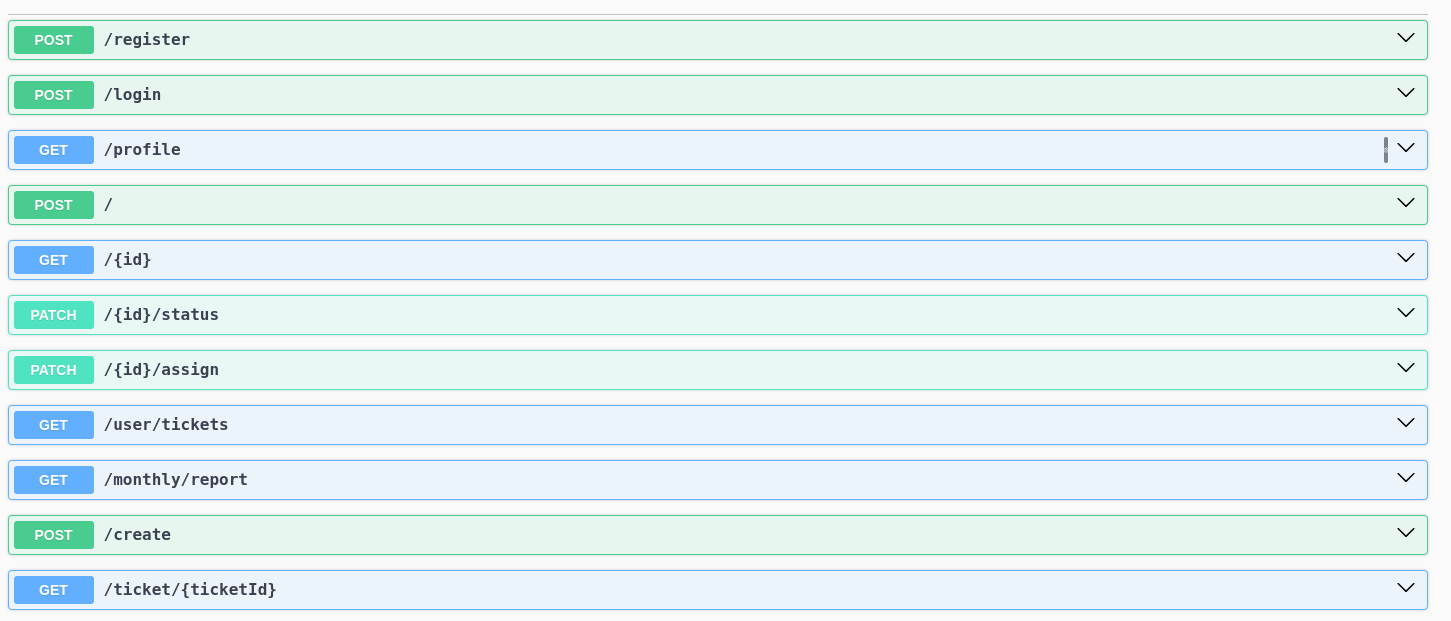
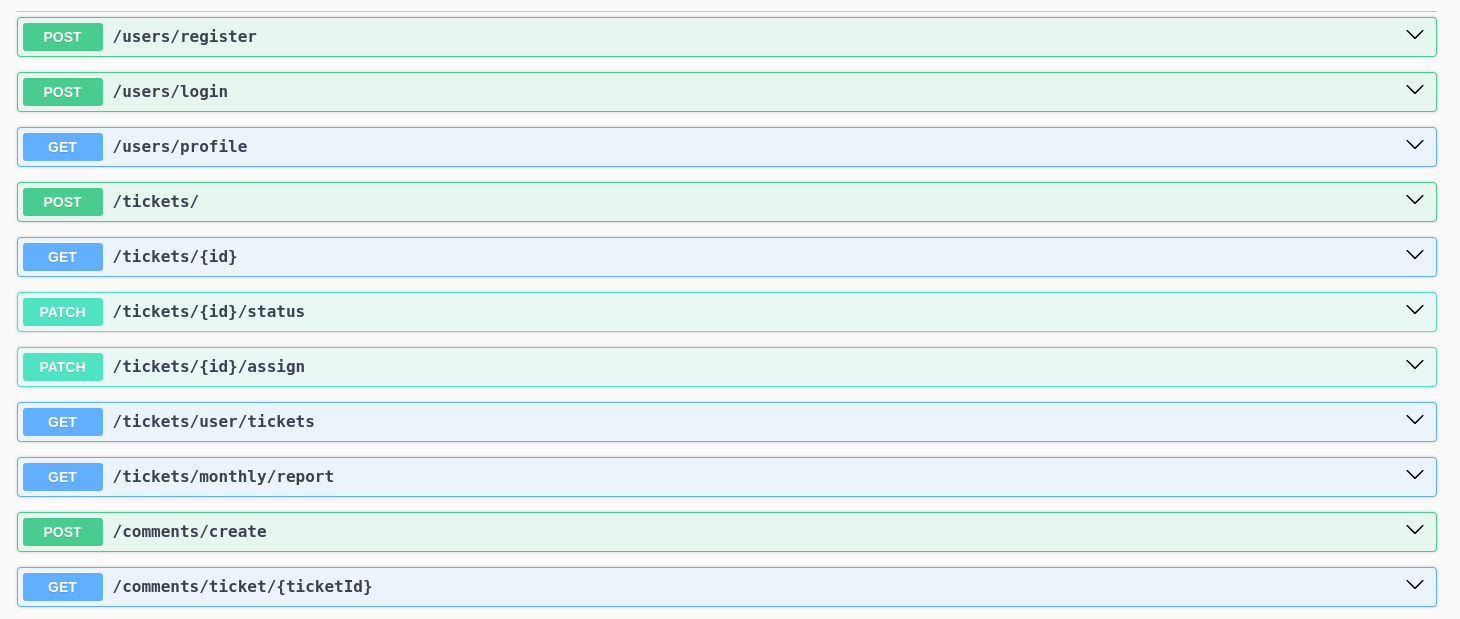
update the image

Changed region(s): [[0.0, 0.0, 0.9924, 0.9822], [0.9614, 0.4911, 0.9924, 0.5218]]

diff --git a/swagger.js b/swagger.js
@@ -1,4 +1,7 @@
 const swaggerAutogen = require('swagger-autogen')();
+// const userRoute = require("./routes/user.routes")
+// const ticketRoute = require("./routes/ticket.routes")
+// const commentRoute = require("./routes/comment.routes")
 
 const doc = {
   info: {
@@ -10,10 +13,13 @@ const doc = {
 };
 
 const outputFile = './swagger-output.json';
-const endpointFiles = ['./app.js']; // Ensure this is an array of file paths
+const endpointFiles = './app.js';
+// const routes = ['./routes/user.routes', './routes/ticket.routes', './routes/comment.routes'];
 
 /* NOTE: If you are using the express Router, you must pass in the 'routes' only the 
 root file where the route starts, such as index.js, app.js, routes.js, etc ... */
+
+// swaggerAutogen(outputFile, routes, doc);
 
 swaggerAutogen(outputFile, endpointFiles, doc).then(() => {
   require('./app.js'); // Your project's root file
